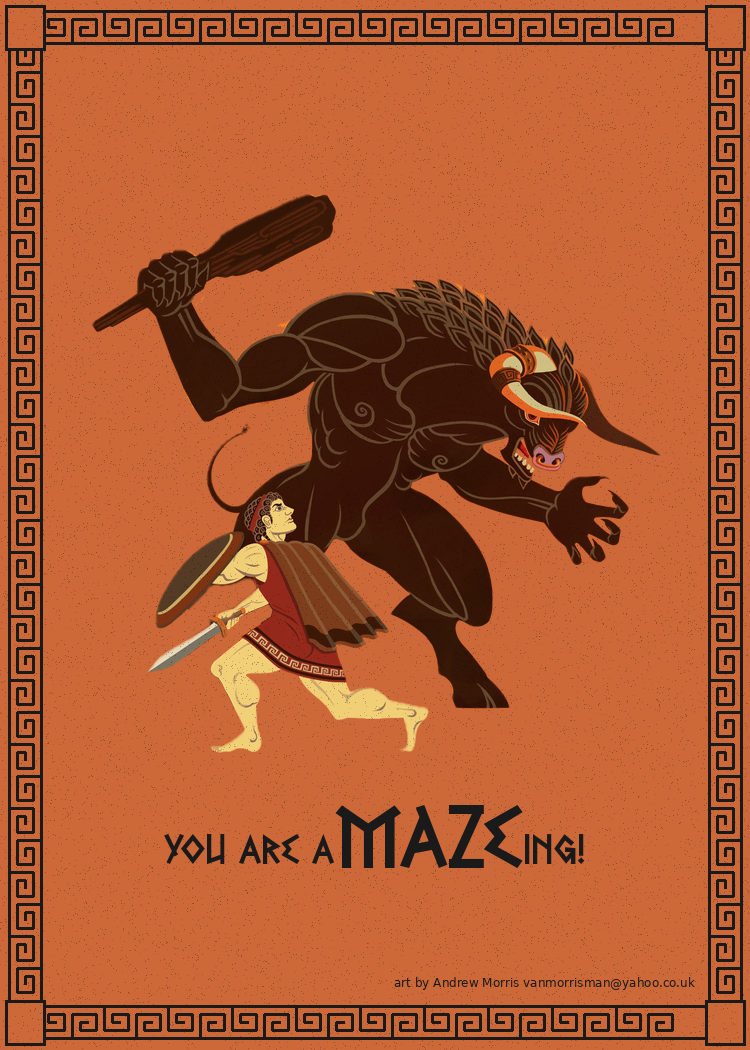
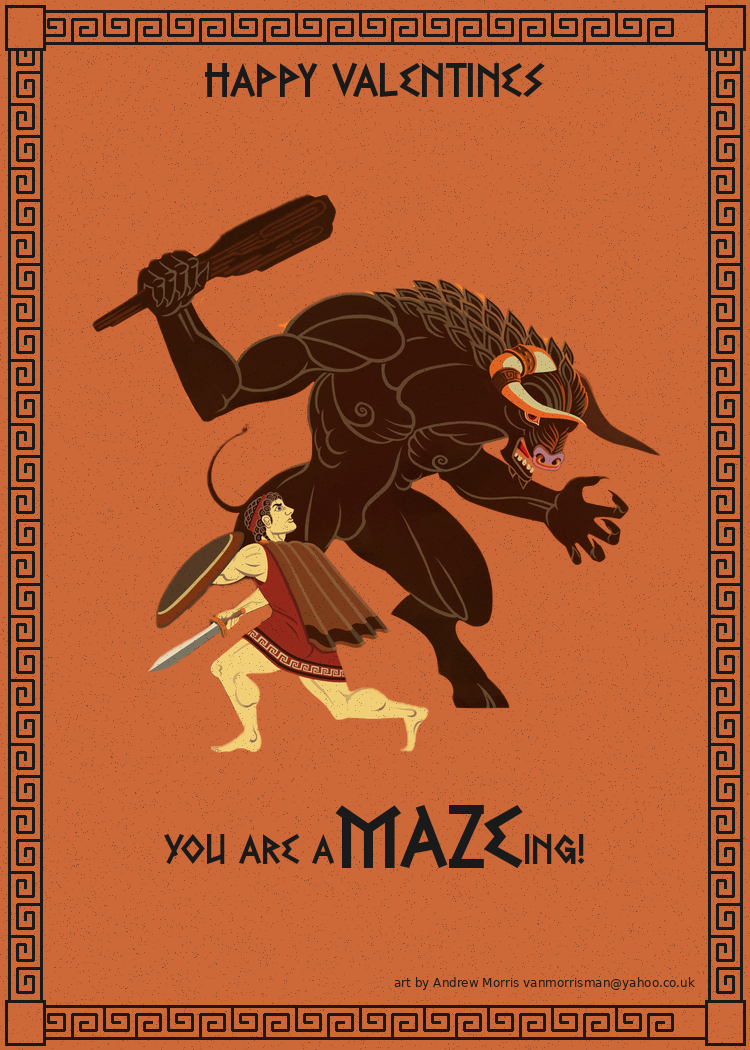
Add Happy Valentines text at top of card

Changed region(s): [[0.276, 0.061, 0.736, 0.0914]]

diff --git a/src/greek_design_system.py b/src/greek_design_system.py
@@ -396,6 +396,24 @@ def generate_greek_card_front(
     draw.rectangle([5, height - 50, 45, height - 5], fill=PALETTE.terracotta, outline=PALETTE.black, width=line_w)
     draw.rectangle([width - 45, height - 50, width - 5, height - 5], fill=PALETTE.terracotta, outline=PALETTE.black, width=line_w)
 
+    # Add "Happy Valentines" at the top
+    import os
+    from PIL import ImageFont
+    base_dir = os.path.dirname(os.path.abspath(__file__))
+    greek_font_path = os.path.join(base_dir, "..", "assets", "fonts", "Greek-Freak.ttf")
+
+    try:
+        top_font = ImageFont.truetype(greek_font_path, 48)
+    except:
+        top_font = ImageFont.load_default()
+
+    top_text = "Happy Valentines"
+    top_bbox = draw.textbbox((0, 0), top_text, font=top_font)
+    top_text_width = top_bbox[2] - top_bbox[0]
+    top_x = (width - top_text_width) // 2
+    top_y = 60  # Just below the top border
+    draw.text((top_x, top_y), top_text, fill=PALETTE.black, font=top_font)
+
     # Add minotaur artwork if provided
     if minotaur_path:
         try:
